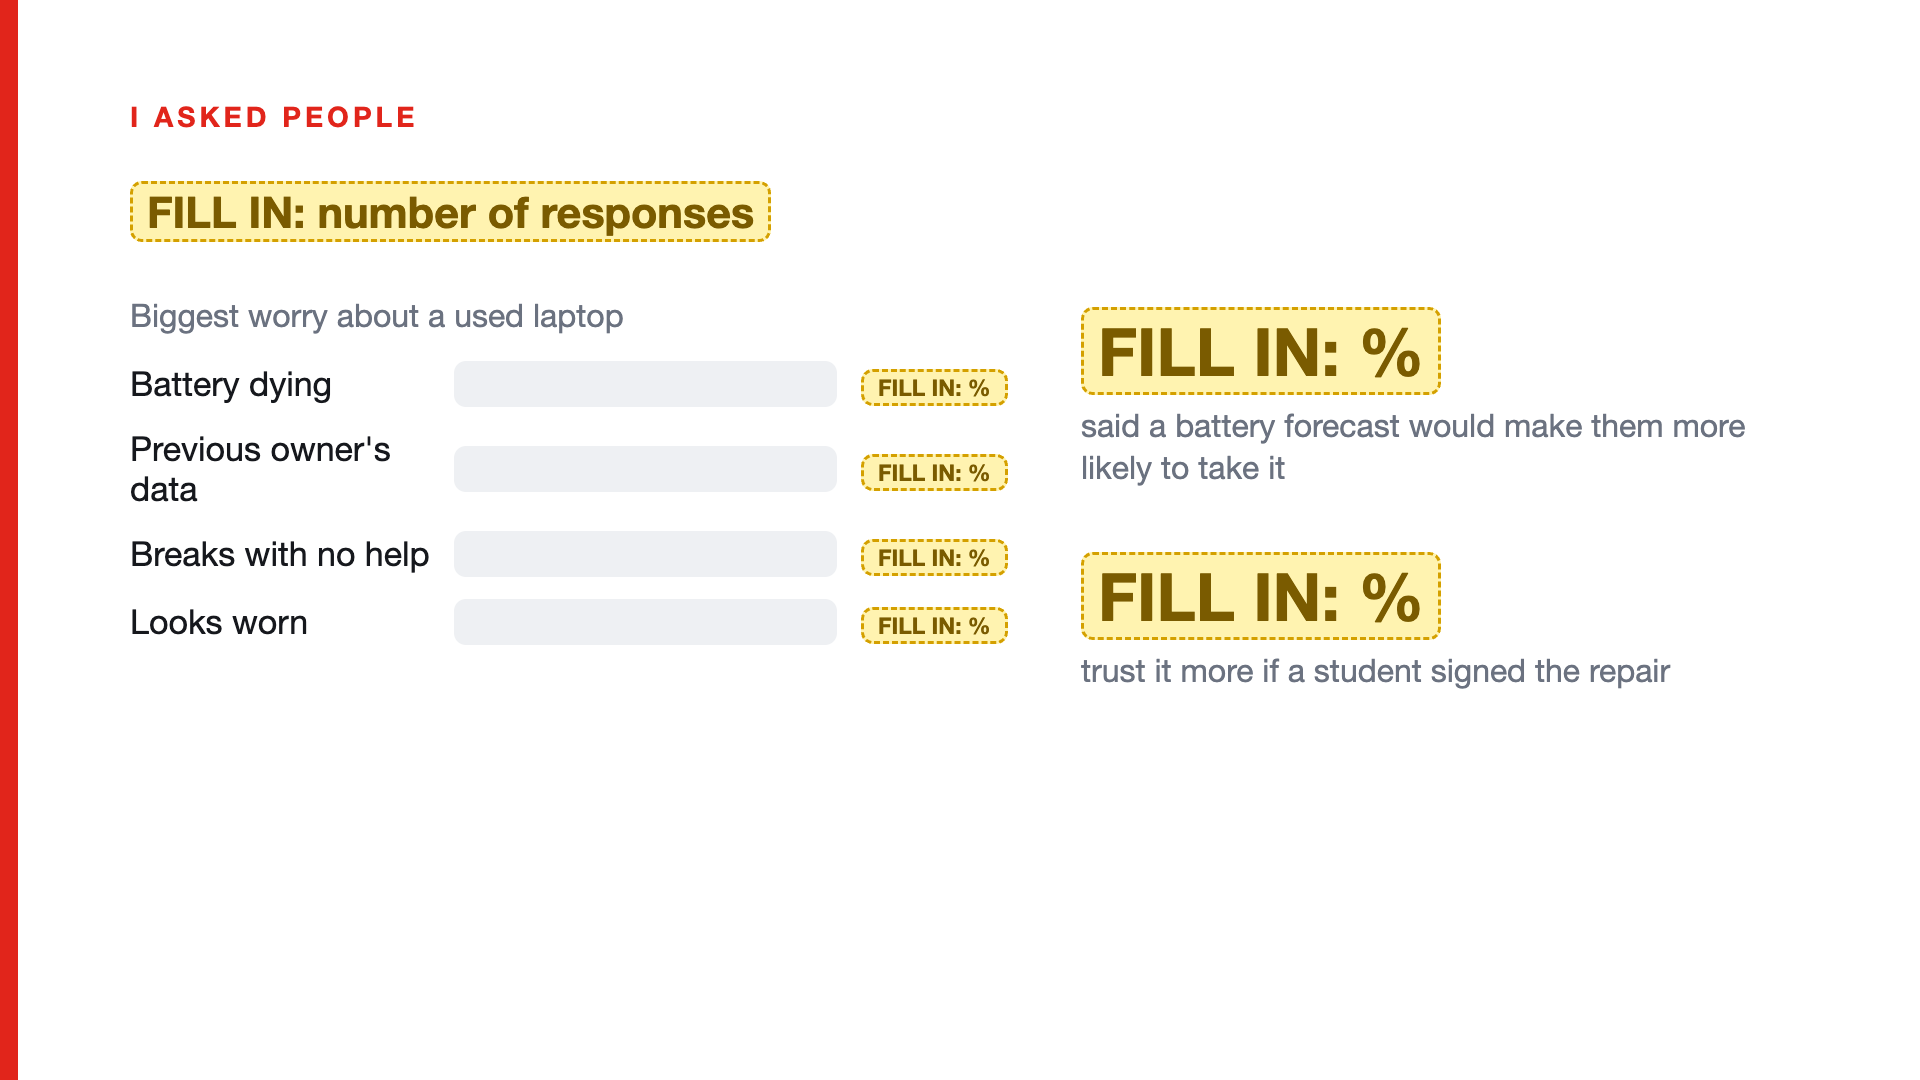
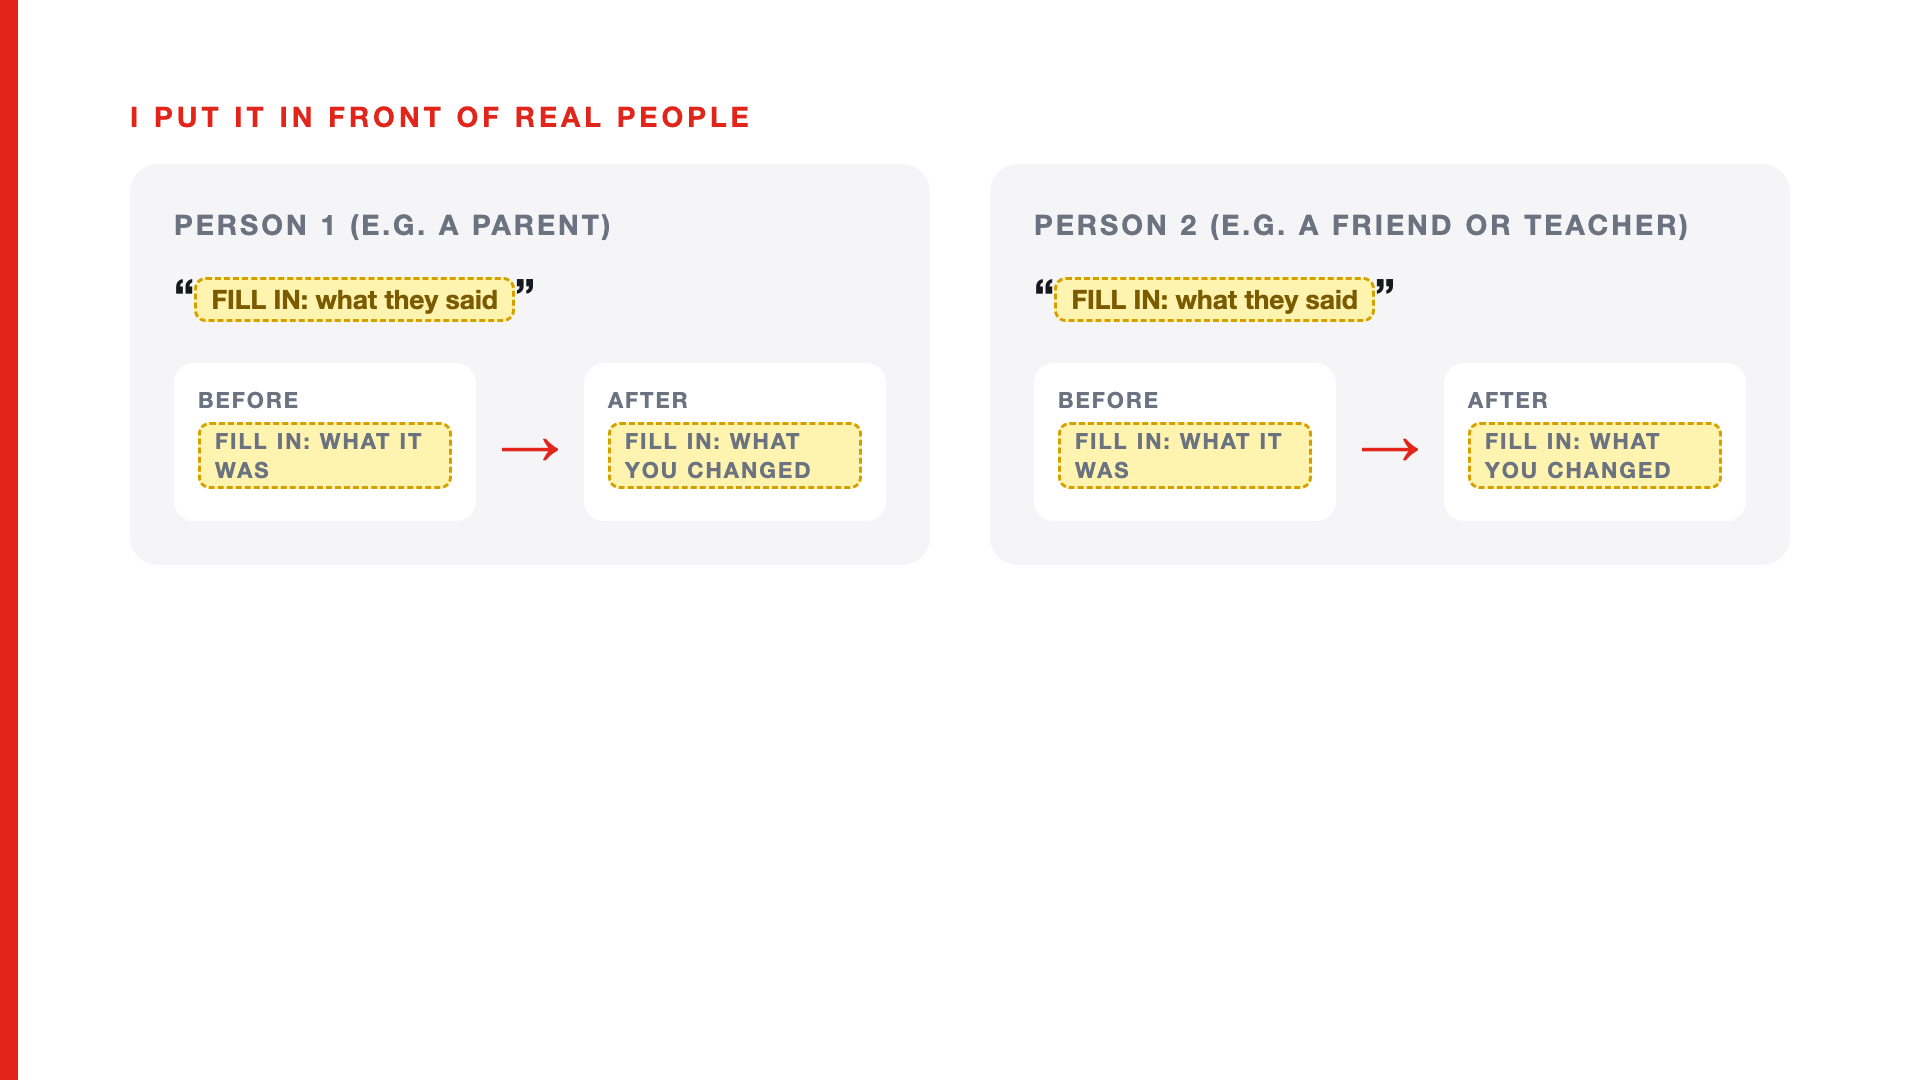
Use typical 100e Gen 3 demo values, Neil Gupta as fixer, replace survey with feedback test, add print guide

diff --git a/tools/make-slides.js b/tools/make-slides.js
@@ -1,5 +1,5 @@
 // Renders the pitch slides (1920x1080 PNG) from slides/config.json.
-// Usage: node tools/make-slides.js        -> slides/png/S01.png ... S20.png
+// Usage: node tools/make-slides.js        -> slides/png/S01.png ... S19.png
 const fs = require("fs");
 const path = require("path");
 const { execFileSync } = require("child_process");
@@ -30,7 +30,6 @@ const kicker = s => `<div class="kicker">${s}</div>`;
 const d = cfg.demo;
 const fc = SLP.forecast({ health: d.health, cycles: d.cycles });
 const wear = (100 - d.health) / d.cycles;
-const s = cfg.survey;
 
 const slides = [
   // S01 Title
@@ -163,7 +162,7 @@ const slides = [
     <div class="row" style="gap:70px;align-items:center">
       <div style="flex:1">
         <div class="h1">Change one number…</div>
-        <div class="sub muted">Every passport has a digital fingerprint (SHA-256) saved in the registry when it's issued. Edit the battery from 93% to 99% and the fingerprint no longer matches.</div>
+        <div class="sub muted">Every passport has a digital fingerprint (SHA-256) saved in the registry when it's issued. Edit the battery from ${d.health}% to 99% and the fingerprint no longer matches.</div>
         <div class="sub" style="margin-top:40px">In production: <b>NTAG 424 DNA</b> NFC tags sign every tap, so a copied sticker fails too.</div>
       </div>
       <div class="col center">${phone("p_top.png", 'style="transform:scale(.92)"')}<div class="lbl green">✅ Real record</div></div>
@@ -208,23 +207,8 @@ const slides = [
       <div class="shot"><img src="${asset("station.png")}"></div>
     </div>`,
 
-  // S16 Survey
-  () => `${kicker("I asked people")}
-    <div class="h1">${fill(s.responses, "number of responses", v => `${v} students & parents answered my survey`)}</div>
-    <div class="row" style="gap:100px;margin-top:40px">
-      <div style="flex:1.2">
-        <div class="lbl" style="margin-bottom:24px">Biggest worry about a used laptop</div>
-        ${s.worries.map(w => `<div class="bar"><span>${w.label}</span><div><i style="width:${blank(w.pct) ? 0 : w.pct}%"></i></div><b>${fill(w.pct, "%", v => v + "%")}</b></div>`).join("")}
-      </div>
-      <div style="flex:1">
-        <div class="num red">${fill(s.forecast_helps_pct, "%", v => v + "%")}</div><div class="lbl">said a battery forecast would make them more likely to take it</div>
-        <div class="num" style="margin-top:40px">${fill(s.student_fixer_more_pct, "%", v => v + "%")}</div><div class="lbl">trust it more if a student signed the repair</div>
-      </div>
-    </div>
-    ${s.quote ? `<div class="quote small" style="margin-top:30px">“${s.quote}”</div>` : ""}`,
-
-  // S17 Feedback
-  () => `${kicker("Feedback I got, and what I changed")}
+  // S16 Feedback
+  () => `${kicker("I put it in front of real people")}
     <div class="row" style="gap:60px;margin-top:20px">
       ${cfg.feedback.map(f => `<div class="fb">
         <div class="who">${f.who}</div>
@@ -233,7 +217,7 @@ const slides = [
       </div>`).join("")}
     </div>`,
 
-  // S18 Why Lenovo
+  // S17 Why Lenovo
   () => `${kicker("Why Lenovo, why now")}
     <div class="grid2">
       <div class="tile left"><div class="num" style="font-size:72px">10/10</div><div class="lbl">iFixit repairability for the ThinkPad T14 Gen 7. The passport can tell owners: “you can swap this battery yourself.”</div></div>
@@ -243,7 +227,7 @@ const slides = [
     </div>
     ${src("iFixit (Mar 2026); EU Battery Regulation 2023/1542 Art. 11 & 13; Lenovo press release; KnoPro × Lenovo challenge materials")}`,
 
-  // S19 Close
+  // S18 Close
   () => `<div class="row center" style="gap:120px;height:100%">
     <div>
       <div class="title">Don't trust it.<br><span class="red">Tap it.</span></div>
@@ -253,7 +237,7 @@ const slides = [
     <div class="col center"><div class="qr">${qrSvg("https://" + cfg.site + "/", 380)}</div><div class="lbl">Try the live demo</div></div>
   </div>`,
 
-  // S20 Sources
+  // S19 Sources
   () => `${kicker("Sources")}
     <ol class="sources">
       <li>Global E-waste Monitor 2024, ITU/UNITAR. itu.int/en/ITU-D/Environment/Pages/Publications/The-Global-E-waste-Monitor-2024.aspx</li>
@@ -266,7 +250,7 @@ const slides = [
       <li>Lenovo press release, Asset Recovery Services (1M+ devices). news.lenovo.com</li>
       <li>U.S. PIRG Education Fund, “Chromebook Churn.” pirg.org</li>
       <li>NXP, NTAG 424 DNA (secure unique NFC messages). nxp.com</li>
-      <li>Survey: my own Google Form, ${fill(s.responses, "n", v => v + " responses")}. Prototype: ${cfg.site}</li>
+      <li>Lenovo PSREF, 100e Chromebook Gen 3 (42Wh battery). Demo passport SLP-0042 uses example battery values typical of a 3-year-old school Chromebook. Prototype: ${cfg.site}</li>
     </ol>`,
 ];
 

diff --git a/docs/create/index.html b/docs/create/index.html
@@ -17,7 +17,7 @@
     <form id="f" class="card" autocomplete="off">
       <h2><span class="ico">💻</span> Device</h2>
       <div class="two">
-        <div><label>Model</label><input name="model" value="Lenovo 300e Chromebook (2nd Gen)"></div>
+        <div><label>Model</label><input name="model" value="Lenovo 100e Chromebook Gen 3"></div>
         <div><label>Passport ID</label><input name="pid"></div>
       </div>
 
@@ -30,8 +30,8 @@
         <option>macOS battery controller</option>
       </select>
       <div class="three">
-        <div><label>Health %</label><input name="health" type="number" step="0.1" value="93"></div>
-        <div><label>Cycle count</label><input name="cycles" type="number" value="140"></div>
+        <div><label>Health %</label><input name="health" type="number" step="0.1" value="87"></div>
+        <div><label>Cycle count</label><input name="cycles" type="number" value="380"></div>
         <div><label>Capacity unit</label><input name="unit" value="mWh"></div>
       </div>
       <div class="two">
@@ -51,7 +51,7 @@
 
       <h2 style="margin-top:22px"><span class="ico">✍</span> Fixer</h2>
       <div class="two">
-        <div><label>Your name</label><input name="fixer" value="Matthew"></div>
+        <div><label>Your name</label><input name="fixer" value="Neil Gupta"></div>
         <div><label>Repair desk</label><input name="desk" value="Student Repair Desk"></div>
       </div>
       <label>Note to the next owner</label>

diff --git a/docs/p/index.html b/docs/p/index.html
@@ -77,7 +77,7 @@ window.addEventListener("hashchange", () => location.reload());
     <div class="row" style="margin-top:8px"><span class="k">Charge cycles</span><span class="v">${esc(b.cycles)}</span></div>
     ${b.design ? `<div class="row"><span class="k">Holds now / when new</span><span class="v">${esc(b.full)} / ${esc(b.design)} ${esc(b.unit || "mWh")}</span></div>` : ""}
     <div class="forecast ${f.status}">🔮 ${esc(f.text)}${f.detail ? `<small>${esc(f.detail)}</small>` : ""}</div>
-    <div class="source">Read directly from the battery controller by ${esc(b.source)} on ${esc(b.measured_on)}.</div>
+    ${b.example ? `<div class="source demo">⚠ Demo passport: ${esc(b.example)}</div>` : `<div class="source">Read directly from the battery controller by ${esc(b.source)} on ${esc(b.measured_on)}.</div>`}
     <details><summary>How is this calculated?</summary>
       <p>Health = how much energy the battery holds now ÷ how much it held when new. The forecast takes the average wear per charge so far and projects how many charges remain before ${SLP.REPLACE_AT}% health or ${SLP.MAX_CYCLES} cycles, Lenovo's Certified Refurbished replacement standard. This is an estimate, not a guarantee.</p>
     </details>

diff --git a/docs/assets/style.css b/docs/assets/style.css
@@ -54,6 +54,7 @@ a { color: var(--red-dark); }
 .forecast.new { background: #e6f4ec; color: var(--good); }
 .forecast small { display: block; font-weight: 500; font-size: 13px; color: var(--muted); margin-top: 4px; }
 .source { font-size: 12px; color: var(--muted); margin-top: 10px; }
+.source.demo { color: #92400e; background: #fef3c7; border-radius: 8px; padding: 8px 10px; }
 
 .row { display: flex; justify-content: space-between; gap: 12px; padding: 9px 0; border-top: 1px solid var(--line); font-size: 15px; }
 .row:first-of-type { border-top: 0; }

diff --git a/video/STORYBOARD.md b/video/STORYBOARD.md
@@ -1,6 +1,6 @@
 # 🎬 Storyboard & Recording Guide: Second Life Passport
 
-**Target: about 4:35 total** (the challenge requires 3:00–5:00). The visuals are done. You add your voice and face.
+**Target: about 4:30 total** (the challenge requires 3:00–5:00). The visuals are done. You add your voice and face.
 
 > **Why there's no word-for-word script:** the judging sheet says *"The pitch is done yourself, not with AI"* and requires your own voice. So each scene gives you **what's on screen**, **what to record**, and **talking points**. Say them however you'd say them to a friend. Practise each scene twice out loud, then record. Sounding natural beats sounding perfect, and judges can tell when someone is reading.
 
@@ -8,11 +8,14 @@
 
 ## 0. Before you record (one evening)
 
-1. **Get your real battery numbers.** On your Lenovo school Chromebook, open the launcher, search **Diagnostics**, and write down **Battery health %**, **Cycle count** and the exact model (Settings → About ChromeOS → Diagnostics, or the label on the bottom). Send them to me and I'll update the passport, sticker and slides. If you can't, the demo uses example numbers and you must say *"example data"* on camera.
-2. **Write your own fixer note** (2–3 sentences, the "Note from the student who fixed it"). Send it to me and I'll put it in the passport.
-3. **Run the survey** (Google Form, GAME_PLAN §8) and **post to KnoPro mentors** (GAME_PLAN §9). Put the results in `slides/config.json`, then run `node tools/make-slides.js`. Yellow "FILL IN" boxes disappear once filled. **Never invent numbers or quotes.** If you only get 12 responses, say 12.
-4. **Print the sticker:** `sticker/sticker-sheet-avery22807.pdf` (Avery 22807 2″ round labels, or plain paper + tape). Print at **100% / Actual size**. Optional: a $0.30 NTAG215 NFC sticker behind it, programmed with the free *NFC Tools* app to the same link, makes the "tap" real.
-   ⚠ Don't stick anything on the school Chromebook. Stick it on a card and hold it next to the laptop, or put it on your own MacBook.
+1. **Battery numbers are done.** The demo passport uses example numbers typical of a 3-year-old school Chromebook (Lenovo 100e Chromebook Gen 3: **87% health, 380 cycles → about 1 school year left**). The passport shows a yellow "Demo passport" label, and you say "example numbers" once on camera (scene 13).
+2. **Your fixer note** is already in the passport, signed Neil Gupta. If you want it in your own words, send me 2–3 sentences and I'll swap it in.
+3. **Do the 10-minute feedback test. Don't skip it: "Feedback" is 1 of the 5 judging categories.** No survey needed.
+   - Show the sticker to **2 people** (a parent, a friend, a teacher). Don't explain anything. Hand them your phone or the sticker and watch them scan it.
+   - Ask two questions: *"Would you trust this laptop more or less? Why?"* and *"What was confusing?"* Write down their exact words.
+   - Pick **one thing to change** because of what each person said. Tell me and I'll make the change on the site.
+   - Fill in the `feedback` part of `slides/config.json` (who, what they said, before, after), then run `node tools/make-slides.js`. **Never invent quotes.**
+4. **Print the sticker.** Step-by-step guide: [`sticker/PRINTING.md`](../sticker/PRINTING.md).
 5. **Test the live links in a private/incognito window:**
    - Passport: https://mattjunior039.github.io/second-life-passport/p/?id=SLP-0042
    - Repair Station: https://mattjunior039.github.io/second-life-passport/create/
@@ -108,15 +111,16 @@ You can run it any time; missing scenes are skipped, so you can watch rough cuts
 - 🤝 Help if anything breaks, and free Lenovo recycling at the end.
 
 **13 · Measured, not typed (🖥/📱 `13_diagnostics.mov` + 🎙 `13_vo.m4a`, ~10s)**
-*Visual:* Film the Chromebook's **Diagnostics → Battery** screen with your phone (or a screenshot).
-- These numbers come straight from the laptop itself. No one types "battery good."
+*Visual:* Film the Chromebook's **Diagnostics → Battery** screen with your phone (open the launcher and search "Diagnostics"). Just film the screen; nothing gets changed on the laptop.
+- In a real passport, these numbers come straight from the laptop itself. No one types "battery good."
+- Say once that the demo passport uses example numbers.
 
 **14 · Forecast math (🎙 S11, ~12s)**
 - Walk through the math in plain words: how much it's worn per charge, how many charges until 80%, divided by school days.
 - Label it as an estimate.
 
 **15 · Can't someone fake it? (🎙 S12, ~12s)**
-- Change even one number (93 → 99%) and the fingerprint breaks, so it shows "Altered record."
+- Change even one number (87 → 99%) and the fingerprint breaks, so it shows "Altered record."
 - Real version: secure NFC chips that sign every tap, so copied stickers fail too.
 *(Optional upgrade: screen-record the tamper link live on your phone instead of the slide.)*
 
@@ -136,15 +140,12 @@ It reads your Mac's battery and opens the Repair Station filled in. Click **Issu
 - Walk the arrows: district retires laptops → student desk or Lenovo Asset Recovery refurbishes → passport auto-fills → families → Lenovo take-back at end of life.
 - Cost: QR free, NFC under $1. Back to the opening: 300 trusted laptops instead of 200.
 
-**19 · Survey (🎙 S16, ~12s)**
-- How many people you asked and how (group chats, Instagram story).
-- The one result that surprised you most.
-
-**20 · Feedback → change (🎙 S17, ~12s)**
-- What a mentor or survey said → what you changed because of it. Be specific, e.g. "people didn't get '86% health,' so I added the school-years forecast."
+**20 · Feedback → change (🎙 S16, ~20s)**
+- Who you showed it to and how (handed them the sticker, said nothing, watched).
+- What each person said → what you changed because of it. Be specific.
 - *This is a whole rubric category (Feedback & Teamwork), so don't skip it.*
 
-**21 · Why Lenovo, why now (🎙 S18, ~12s)**
+**21 · Why Lenovo, why now (🎙 S17, ~12s)**
 - New ThinkPads score 10/10 for repairability, so the passport can say "swap the battery yourself."
 - EU rules from Feb 2027: QR codes on batteries and replaceable batteries. Passports are ready.
 - It plugs into what Lenovo already does: Certified Refurbished, Asset Recovery and take-back.
@@ -154,14 +155,14 @@ It reads your Mac's battery and opens the Repair Station filled in. Click **Issu
 - Tie back to the hook (the Carfax line).
 - End on the tagline: **Don't trust it. Tap it.**
 
-**23 · End card (S19, auto, 4s)** · **24 · Sources (S20, auto, 5s)**
+**23 · End card (S18, auto, 4s)** · **24 · Sources (S19, auto, 5s)**
 
 ---
 
 ## 4. Final checklist before you submit
 - [ ] 3:00–5:00 (the assembler tells you)
 - [ ] Your own voice throughout, with no music or background noise
-- [ ] All FILL-IN boxes gone (survey + feedback are real)
+- [ ] All FILL-IN boxes gone (feedback is real)
 - [ ] Watched once all the way through with headphones
 - [ ] Uploaded (YouTube *Unlisted* or Google Drive "Anyone with the link") and **opened in an incognito window** to confirm it plays
 - [ ] Live demo link works in incognito

diff --git a/sticker/PRINTING.md b/sticker/PRINTING.md
@@ -1,0 +1,56 @@
+# 🖨 Printing the sticker (step by step)
+
+**File:** `sticker/sticker-sheet-avery22807.pdf`, a single US Letter page with **12 identical stickers**. Each one is exactly **2 inches (5.1 cm)** across, and every QR code opens passport SLP-0042.
+
+## 1. Pick your paper
+
+| Option | What to get | Cost |
+|---|---|---|
+| **A. Free (fine for the video)** | Regular printer paper, plus **clear packing tape** (or Scotch tape) and a glue stick or double-sided tape | $0 |
+| **B. Looks like a real product** | **Avery 22807** round labels: 2″, glossy white, 12 per sheet. Sold at Staples, Office Depot, Target and Amazon. Get exactly this number, because the PDF is lined up to its layout. | ~$10–15 |
+
+## 2. Print it (Mac)
+
+1. In Finder, open `second-life-passport` → `sticker` and double-click **`sticker-sheet-avery22807.pdf`**. It opens in Preview.
+2. Press **⌘P**.
+3. Click **Show Details** if you only see a small dialog.
+4. Set **Paper Size: US Letter**.
+5. Set **Scale: 100%**. Do **not** choose "Scale to Fit."
+6. Under **Media & Quality**, set Quality to **Best/High**. On Avery labels, also set Paper Type to **Labels** or **Glossy**.
+7. If you use a school or library printer, save as PDF first (bottom-left dropdown → Save as PDF), then print from a USB stick. Tell them **"actual size, no scaling."**
+
+**If you bought Avery labels:** print one test page on plain paper first. Hold it behind a label sheet against a window and check that the circles line up. To find out which side your printer prints on, draw an arrow on a plain sheet, feed it in and see where the ink lands. Then print on the label sheet.
+
+## 3. Check it before cutting (30 seconds)
+
+- [ ] Measure with a ruler: the circle should be **2 inches** across. If it's smaller, scaling was on, so reprint at 100%.
+- [ ] Open the iPhone **Camera** app and point it at a QR code from about 6 inches away. A yellow `mattjunior039.github.io` link pops up. Tap it and you should see a green **"Verified record · matches registry."**
+  - If the link doesn't appear, go to Settings → Camera and turn on **Scan QR Codes**.
+
+## 4. Cut and stick
+
+- **Avery:** just peel one off.
+- **Plain paper:**
+  1. Cut along the outside edge of the red ring.
+  2. Cover the front with a piece of **clear packing tape** a bit bigger than the circle, then trim it. This protects it and makes it look glossy.
+  3. Put double-sided tape or glue on the back.
+
+**Where to put it for the video:** on your **own MacBook lid** (bottom-right corner) with removable tape, such as painter's tape or Scotch Removable, so it peels off clean. **Don't stick anything on the school Chromebook**, because it's school property. Keep a second sticker loose to hold up to the camera in the opening and closing shots.
+
+**Filming the scan:**
+- Use bright light from a window or lamp.
+- Tilt the laptop a little so the tape doesn't glare.
+- Hold the phone 4–8 inches away and keep it still for a second.
+
+## 5. Optional: make "tap" really work (NFC)
+
+You don't need this, because the QR code is a working demo. If you want the tap moment on camera:
+
+1. **Buy NTAG215 NFC stickers** (25 mm round, about $8 for 10 on Amazon).
+   - ⚠ NFC **does not work on metal**, and your MacBook is aluminum. Either buy **"anti-metal" / "on-metal" NTAG215** tags, or put the tag on a plastic surface or a piece of cardboard.
+2. Install the free app **NFC Tools** (App Store).
+3. In the app: **Write** → **Add a record** → **URL / URI**.
+4. Paste `https://mattjunior039.github.io/second-life-passport/p/?id=SLP-0042`, then tap **OK** → **Write**.
+5. Hold the top edge of the iPhone against the tag until it says "Write complete."
+6. Test it: with the iPhone unlocked, touch its top edge to the tag. A banner appears; tap it and the passport opens.
+7. Stick the printed QR sticker **on top of** the NFC tag. Now it does both.
